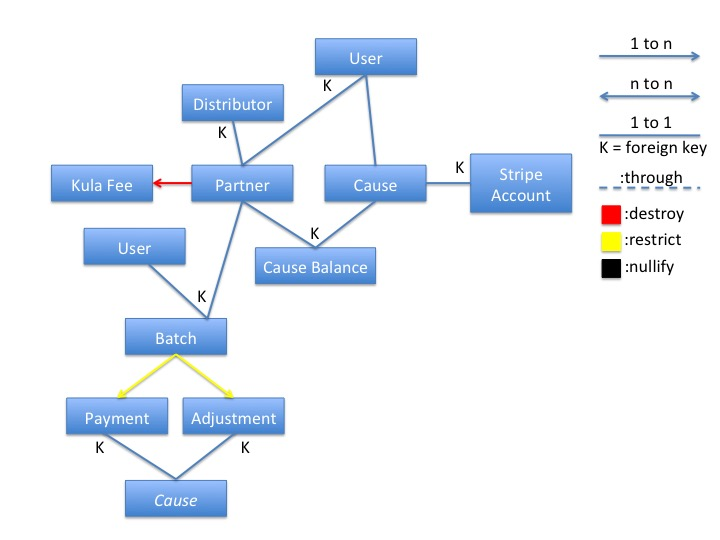
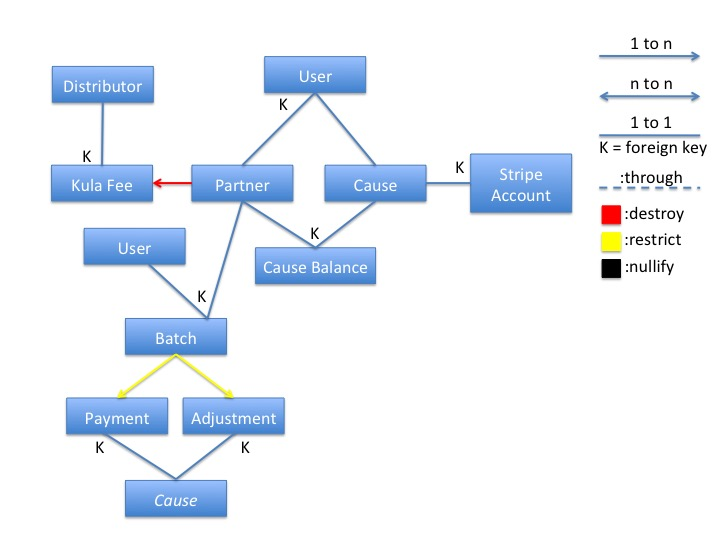
New fee structure
Select proper fee record from partner, given distributor and date

Changed region(s): [[0.2444, 0.0593, 0.5806, 0.2963], [0.0611, 0.1185, 0.2139, 0.2963]]

diff --git a/db/seeds.rb b/db/seeds.rb
@@ -6,8 +6,8 @@
 #   cities = City.create([{ name: 'Chicago' }, { name: 'Copenhagen' }])
 #   Mayor.create(name: 'Emanuel', city: cities.first)
 if User.where("role = ?", User::ADMIN).empty?
-  Partner.create!(:partner_identifier => '1', :name => 'Red Robin', :display_name => 'Red Robin', :domain => 'redrobin.com')
-  Cause.create!(:cause_identifier => '2001', :name => 'Sewickley Academy', :cause_type => Cause::CAUSE_TYPE, :country => 'US', )
+  #Partner.create!(:partner_identifier => '1', :name => 'Red Robin', :display_name => 'Red Robin', :domain => 'redrobin.com')
+  #Cause.create!(:cause_identifier => '2001', :name => 'Sewickley Academy', :cause_type => Cause::CAUSE_TYPE, :country => 'US', )
   User.create!(:email => 'jeff@tapdatapp.co', :password => 'MonkeY1984', :password_confirmation => 'MonkeY1984', :role => User::ADMIN)
   User.create!(:email => 'arash@tapdatapp.co', :password => 'MonkeY1984', :password_confirmation => 'MonkeY1984', :role => User::ADMIN)
   User.create!(:email => 'john@kula.com', :password => 'KulaKulaKula', :password_confirmation => 'KulaKulaKula', :role => User::KULA_ADMIN)
@@ -15,3 +15,32 @@ if User.where("role = ?", User::ADMIN).empty?
   User.create!(:email => 'bird@redrobin.com', :partner_id => Partner.first.id, :password => 'BeakBeakBeak', :password_confirmation => 'BeakBeakBeak', :role => User::PARTNER)
   User.create!(:email => 'joe@user.com', :password => 'MonkeY1984', :password_confirmation => 'MonkeY1984')
 end
+
+Partner.destroy_all
+Distributor.destroy_all
+
+milepoint = Partner.create!(:partner_identifier => 10, :name => 'Milepoint, LLC (Reseller Agreement)', :display_name => 'Milepoint', :domain => 'milepoint.com')
+jetBlue = Partner.create!(:partner_identifier => 11, :name => 'JetBlue Airways (Services Agreement)', :display_name => 'JetBlue', :domain => 'jetblue.com')
+kula = Partner.create!(:partner_identifier => 12, :name => 'Kula', :display_name => 'Kula', :domain => 'kula.com')
+kellogg = Partner.create!(:partner_identifier => 14, :name => 'Kellogg Company (Prog Ptnr Agreement)', :display_name => 'Kellogg', :domain => 'kellogg.com')
+redRobin = Partner.create!(:partner_identifier => 22, :name => 'Red Robin', :display_name => 'Red Robin', :domain => 'redrobin.com')
+coke = Partner.create!(:partner_identifier => 24, :name => 'My Coke Rewards', :display_name => 'Coke Rewards', :domain => 'mcr.com')
+
+connexions = Distributor.create!(:distributor_identifier => 16, :name => 'Connexions', :display_name => 'Connexions')
+g2g = Distributor.create!(:distributor_identifier => 17, :name => 'G2G', :display_name => 'G2G')
+globogym = Distributor.create!(:distributor_identifier => 20, :name => 'Globoforce', :display_name => 'Globoforce')
+regis = Distributor.create!(:distributor_identifier => 23, :name => 'Regis University', :display_name => 'Regis')
+tanzer = Distributor.create!(:distributor_identifier => 25, :name => 'Stephen Tanzer (Various)', :display_name => 'Tanzer')
+
+# Fees
+jetBlue.kula_fees.create!(:us_charity_rate => 0.1, :us_charity_kf_rate => 0.0225, :intl_charity_rate => 0.125, :intl_charity_kf_rate => 0.06)
+kellogg.kula_fees.create!(:us_charity_rate => 0.09, :us_charity_kf_rate => 0.01, :us_school_rate => 0.1, :us_school_kf_rate => 0.0225, :intl_charity_rate => 0.09, :intl_charity_kf_rate => 0.01)
+milepoint.kula_fees.create!(:us_charity_rate => 0.1, :us_charity_kf_rate => 0.0225, :intl_charity_rate => 0.125, :intl_charity_kf_rate => 0.06)
+redRobin.kula_fees.create!(:us_charity_rate => 0.1, :us_charity_kf_rate => 0.025, :us_school_rate => 0.1, :us_school_kf_rate => 0.025)
+kula.kula_fees.create(:us_charity_rate => 0.1, :us_charity_kf_rate => 0.025, :us_school_rate => 0.1, :us_school_kf_rate => 0.025, :intl_charity_rate => 0.125, :intl_charity_kf_rate => 0.06)
+kula.kula_fees.create(:distributor_identifier => 16, :distributor_rate => 0.125, :expiration_date => Date.parse('2015-04-30'), :us_charity_rate => 0.1, :us_charity_kf_rate => 0.025, :us_school_rate => 0.1, :us_school_kf_rate => 0.025, :intl_charity_rate => 0.1, :intl_charity_kf_rate => 0.025)
+kula.kula_fees.create(:distributor_identifier => 16, :distributor_rate => 0.035, :effective_date => Date.parse('2015-05-01'), :us_charity_rate => 0.06, :us_charity_kf_rate => 0.03, :us_school_rate => 0.06, :us_school_kf_rate => 0.03, :intl_charity_rate => 0.06, :intl_charity_kf_rate => 0.03)
+kula.kula_fees.create(:distributor_identifier => 17, :distributor_rate => 0, :us_charity_rate => 0.1, :us_charity_kf_rate => 0.025, :us_school_rate => 0.1, :us_school_kf_rate => 0.025, :intl_charity_rate => 0.1, :intl_charity_kf_rate => 0.025)
+kula.kula_fees.create(:distributor_identifier => 20, :distributor_rate => 0.1, :us_charity_rate => 0.1, :us_charity_kf_rate => 0.025, :us_school_rate => 0.1, :us_school_kf_rate => 0.025, :intl_charity_rate => 0.1, :intl_charity_kf_rate => 0.025)
+kula.kula_fees.create(:distributor_identifier => 23, :distributor_rate => 0, :us_charity_rate => 0.1, :us_charity_kf_rate => 0.025, :us_school_rate => 0.1, :us_school_kf_rate => 0.025, :intl_charity_rate => 0.1, :intl_charity_kf_rate => 0.025)
+kula.kula_fees.create(:distributor_identifier => 25, :distributor_rate => 0, :us_charity_rate => 0.1, :us_charity_kf_rate => 0.025, :us_school_rate => 0.1, :us_school_kf_rate => 0.025, :intl_charity_rate => 0.1, :intl_charity_kf_rate => 0.025)

diff --git a/app/models/kula_fee.rb b/app/models/kula_fee.rb
@@ -2,21 +2,20 @@
 #
 # Table name: kula_fees
 #
-#  id                   :integer          not null, primary key
-#  partner_id           :integer
-#  effective_date       :date
-#  expiration_date      :date
-#  created_at           :datetime
-#  updated_at           :datetime
-#  us_school_rate       :decimal(6, 4)
-#  us_charity_rate      :decimal(6, 4)
-#  intl_charity_rate    :decimal(6, 4)
-#  us_school_kf_rate    :decimal(6, 4)
-#  us_charity_kf_rate   :decimal(6, 4)
-#  intl_charity_kf_rate :decimal(6, 4)
-#  distributor_rate     :decimal(6, 4)
-#  distributor_kf_rate  :decimal(6, 4)
-#  distributor_id       :integer
+#  id                     :integer          not null, primary key
+#  partner_identifier     :integer
+#  effective_date         :date
+#  expiration_date        :date
+#  created_at             :datetime
+#  updated_at             :datetime
+#  us_school_rate         :decimal(6, 4)
+#  us_charity_rate        :decimal(6, 4)
+#  intl_charity_rate      :decimal(6, 4)
+#  us_school_kf_rate      :decimal(6, 4)
+#  us_charity_kf_rate     :decimal(6, 4)
+#  intl_charity_kf_rate   :decimal(6, 4)
+#  distributor_rate       :decimal(6, 4)
+#  distributor_identifier :integer
 #
 
 # CHARTER
@@ -30,19 +29,18 @@
 # distributor_(kf_)rate), and the original fees as well
 #
 class KulaFee < ActiveRecord::Base
-  belongs_to :partner
-  belongs_to :distributor
+  belongs_to :partner, :foreign_key => 'partner_identifier'
+  belongs_to :distributor, :foreign_key => 'distributor_identifier'
   
-  validates :us_school_rate, :numericality => { :greater_than_or_equal_to => 0.0 }
-  validates :us_charity_rate, :numericality => { :greater_than_or_equal_to => 0.0 }
-  validates :intl_charity_rate, :numericality => { :greater_than_or_equal_to => 0.0 }
+  validates :us_school_rate, :numericality => { :greater_than_or_equal_to => 0.0 }, :allow_nil => true  
+  validates :us_charity_rate, :numericality => { :greater_than_or_equal_to => 0.0 }, :allow_nil => true  
+  validates :intl_charity_rate, :numericality => { :greater_than_or_equal_to => 0.0 }, :allow_nil => true  
   
-  validates :us_school_kf_rate, :numericality => { :greater_than_or_equal_to => 0.0 }
-  validates :us_charity_kf_rate, :numericality => { :greater_than_or_equal_to => 0.0 }
-  validates :intl_charity_kf_rate, :numericality => { :greater_than_or_equal_to => 0.0 }
+  validates :us_school_kf_rate, :numericality => { :greater_than_or_equal_to => 0.0 }, :allow_nil => true  
+  validates :us_charity_kf_rate, :numericality => { :greater_than_or_equal_to => 0.0 }, :allow_nil => true  
+  validates :intl_charity_kf_rate, :numericality => { :greater_than_or_equal_to => 0.0 }, :allow_nil => true  
 
-  validates :distributor_rate, :numericality => { :greater_than_or_equal_to => 0.0 }  
-  validates :distributor_kf_rate, :numericality => { :greater_than_or_equal_to => 0.0 }
+  validates :distributor_rate, :numericality => { :greater_than_or_equal_to => 0.0 }, :allow_nil => true  
                    
   def universal?
     self.effective_date.nil? and self.expiration_date.nil?

diff --git a/db/schema.rb b/db/schema.rb
@@ -11,7 +11,7 @@
 #
 # It's strongly recommended that you check this file into your version control system.
 
-ActiveRecord::Schema.define(version: 20150913050000) do
+ActiveRecord::Schema.define(version: 20150913163047) do
 
   create_table "adjustments", force: :cascade do |t|
     t.integer  "batch_id",   limit: 4
@@ -91,29 +91,30 @@ ActiveRecord::Schema.define(version: 20150913050000) do
 
   add_index "causes", ["cause_identifier"], name: "index_causes_on_cause_identifier", unique: true, using: :btree
 
-  create_table "distributors", force: :cascade do |t|
-    t.integer  "partner_id",   limit: 4
-    t.string   "name",         limit: 64, null: false
-    t.string   "display_name", limit: 64
-    t.datetime "created_at",              null: false
-    t.datetime "updated_at",              null: false
+  create_table "distributors", id: false, force: :cascade do |t|
+    t.integer  "distributor_identifier", limit: 4,  null: false
+    t.string   "name",                   limit: 64, null: false
+    t.string   "display_name",           limit: 64
+    t.datetime "created_at",                        null: false
+    t.datetime "updated_at",                        null: false
   end
 
+  add_index "distributors", ["distributor_identifier"], name: "index_distributors_on_distributor_identifier", unique: true, using: :btree
+
   create_table "kula_fees", force: :cascade do |t|
-    t.integer  "partner_id",           limit: 4
+    t.integer  "partner_identifier",     limit: 4
     t.date     "effective_date"
     t.date     "expiration_date"
     t.datetime "created_at"
     t.datetime "updated_at"
-    t.decimal  "us_school_rate",                 precision: 6, scale: 4
-    t.decimal  "us_charity_rate",                precision: 6, scale: 4
-    t.decimal  "intl_charity_rate",              precision: 6, scale: 4
-    t.decimal  "us_school_kf_rate",              precision: 6, scale: 4
-    t.decimal  "us_charity_kf_rate",             precision: 6, scale: 4
-    t.decimal  "intl_charity_kf_rate",           precision: 6, scale: 4
-    t.decimal  "distributor_rate",               precision: 6, scale: 4
-    t.decimal  "distributor_kf_rate",            precision: 6, scale: 4
-    t.integer  "distributor_id",       limit: 4
+    t.decimal  "us_school_rate",                   precision: 6, scale: 4
+    t.decimal  "us_charity_rate",                  precision: 6, scale: 4
+    t.decimal  "intl_charity_rate",                precision: 6, scale: 4
+    t.decimal  "us_school_kf_rate",                precision: 6, scale: 4
+    t.decimal  "us_charity_kf_rate",               precision: 6, scale: 4
+    t.decimal  "intl_charity_kf_rate",             precision: 6, scale: 4
+    t.decimal  "distributor_rate",                 precision: 6, scale: 4
+    t.integer  "distributor_identifier", limit: 4
   end
 
   create_table "partners", primary_key: "partner_identifier", force: :cascade do |t|

diff --git a/spec/models/kula_fee_spec.rb b/spec/models/kula_fee_spec.rb
@@ -2,21 +2,20 @@
 #
 # Table name: kula_fees
 #
-#  id                   :integer          not null, primary key
-#  partner_id           :integer
-#  effective_date       :date
-#  expiration_date      :date
-#  created_at           :datetime
-#  updated_at           :datetime
-#  us_school_rate       :decimal(6, 4)
-#  us_charity_rate      :decimal(6, 4)
-#  intl_charity_rate    :decimal(6, 4)
-#  us_school_kf_rate    :decimal(6, 4)
-#  us_charity_kf_rate   :decimal(6, 4)
-#  intl_charity_kf_rate :decimal(6, 4)
-#  distributor_rate     :decimal(6, 4)
-#  distributor_kf_rate  :decimal(6, 4)
-#  distributor_id       :integer
+#  id                     :integer          not null, primary key
+#  partner_identifier     :integer
+#  effective_date         :date
+#  expiration_date        :date
+#  created_at             :datetime
+#  updated_at             :datetime
+#  us_school_rate         :decimal(6, 4)
+#  us_charity_rate        :decimal(6, 4)
+#  intl_charity_rate      :decimal(6, 4)
+#  us_school_kf_rate      :decimal(6, 4)
+#  us_charity_kf_rate     :decimal(6, 4)
+#  intl_charity_kf_rate   :decimal(6, 4)
+#  distributor_rate       :decimal(6, 4)
+#  distributor_identifier :integer
 #
 
 describe KulaFee do
@@ -30,6 +29,7 @@ describe KulaFee do
   
   it "should respond to everything" do
     expect(fee).to respond_to(:partner)
+    expect(fee).to respond_to(:distributor_rate)
     expect(fee).to respond_to(:us_school_rate)
     expect(fee).to respond_to(:us_charity_rate)
     expect(fee).to respond_to(:intl_charity_rate)

diff --git a/app/models/partner.rb b/app/models/partner.rb
@@ -17,8 +17,7 @@ class Partner < ActiveRecord::Base
   
   self.primary_key = 'partner_identifier'
   
-  has_one :distributor, :dependent => :nullify
-  has_many :kula_fees, :dependent => :destroy
+  has_many :kula_fees, :dependent => :destroy, :foreign_key => 'partner_identifier'
   has_many :cause_balances, :dependent => :restrict_with_exception
   has_many :batches, :dependent => :restrict_with_exception
   has_many :payments, :through => :batches
@@ -31,27 +30,20 @@ class Partner < ActiveRecord::Base
   validates_length_of :currency, :maximum => MAX_CURRENCY_LEN 
   
   validate :non_conflicting_rates
-                   
-  def current_kula_rate(date = nil)
+         
+  # Return entire object, since there are potentially 7 rates                 
+  def current_kula_rate(distributor_id = nil, date = nil)
     test_date = date || Date.today
     
-    self.kula_fees.each do |fee|
-      return fee.kula_rate if fee.valid_on?(test_date)
+    self.kula_fees.where(:distributor_identifier => distributor_id).each do |fee|
+      if fee.valid_on?(test_date)
+        return fee
+      end
     end
     
     return nil
   end
 
-  def current_discount_rate(date = nil)
-    test_date = date || Date.today
-    
-    self.kula_fees.each do |fee|
-      return fee.discount_rate if fee.valid_on?(test_date)
-    end
-    
-    return nil
-  end
-  
 private
   def non_conflicting_rates
     fees = self.kula_fees

diff --git a/app/models/distributor.rb b/app/models/distributor.rb
@@ -2,12 +2,11 @@
 #
 # Table name: distributors
 #
-#  id           :integer          not null, primary key
-#  partner_id   :integer
-#  name         :string(64)       not null
-#  display_name :string(64)
-#  created_at   :datetime         not null
-#  updated_at   :datetime         not null
+#  distributor_identifier :integer          not null, primary key
+#  name                   :string(64)       not null
+#  display_name           :string(64)
+#  created_at             :datetime         not null
+#  updated_at             :datetime         not null
 #
 
 # CHARTER
@@ -20,8 +19,10 @@
 class Distributor < ActiveRecord::Base
   MAX_NAME_LEN = 64
 
-  belongs_to :partner
+  self.primary_key = 'distributor_identifier'
   
+  has_many :kula_fees, :dependent => :nullify, :foreign_key => 'distributor_identifier'
+
   validates :name, :presence => true, :length => { :maximum => MAX_NAME_LEN }
   validates :display_name, :length => { :maximum => MAX_NAME_LEN }
 end

diff --git a/spec/models/distributor_spec.rb b/spec/models/distributor_spec.rb
@@ -2,12 +2,11 @@
 #
 # Table name: distributors
 #
-#  id           :integer          not null, primary key
-#  partner_id   :integer
-#  name         :string(64)       not null
-#  display_name :string(64)
-#  created_at   :datetime         not null
-#  updated_at   :datetime         not null
+#  distributor_identifier :integer          not null, primary key
+#  name                   :string(64)       not null
+#  display_name           :string(64)
+#  created_at             :datetime         not null
+#  updated_at             :datetime         not null
 #
 
 describe Distributor do

diff --git a/db/migrate/20150913050000_create_distributors.rb b/db/migrate/20150913050000_create_distributors.rb
@@ -1,11 +1,13 @@
 class CreateDistributors < ActiveRecord::Migration
   def change
-    create_table :distributors do |t|
-      t.references :partner
+    create_table :distributors, :id => false do |t|
+      t.integer :distributor_identifier, :null => false
       t.string :name, :null => false, :limit => 64
       t.string :display_name, :limit => 64
 
       t.timestamps null: false
     end
+    
+    add_index :distributors, :distributor_identifier, :unique => true
   end
 end

diff --git a/db/migrate/20150913040942_jigger_kula_fees_again.rb b/db/migrate/20150913040942_jigger_kula_fees_again.rb
@@ -4,7 +4,6 @@ class JiggerKulaFeesAgain < ActiveRecord::Migration
     add_column :kula_fees, :us_charity_kf_rate, :decimal, :precision => 6, :scale => 4
     add_column :kula_fees, :intl_charity_kf_rate, :decimal, :precision => 6, :scale => 4
     add_column :kula_fees, :distributor_rate, :decimal, :precision => 6, :scale => 4
-    add_column :kula_fees, :distributor_kf_rate, :decimal, :precision => 6, :scale => 4
     add_column :kula_fees, :distributor_id, :integer
   end
 end

diff --git a/db/migrate/20150913163047_adjust_primary_keys.rb b/db/migrate/20150913163047_adjust_primary_keys.rb
@@ -1,0 +1,6 @@
+class AdjustPrimaryKeys < ActiveRecord::Migration
+  def change
+    rename_column :kula_fees, :partner_id, :partner_identifier
+    rename_column :kula_fees, :distributor_id, :distributor_identifier
+  end
+end

diff --git a/spec/factories.rb b/spec/factories.rb
@@ -49,7 +49,6 @@ FactoryGirl.define do
       distributor
       
       distributor_rate { Random.rand * 50 + 0.01 }
-      distributor_kf_rate { Random.rand * 23 + 0.03 }
     end
   end
   
